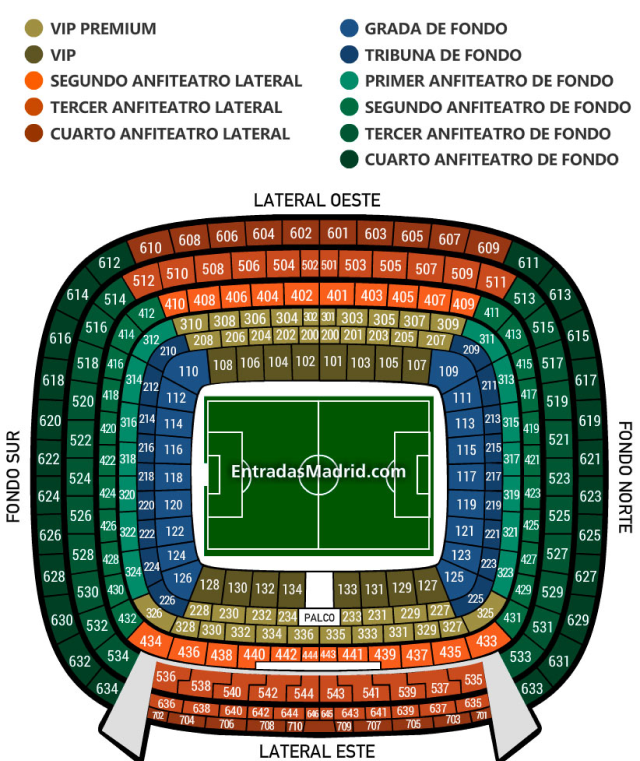
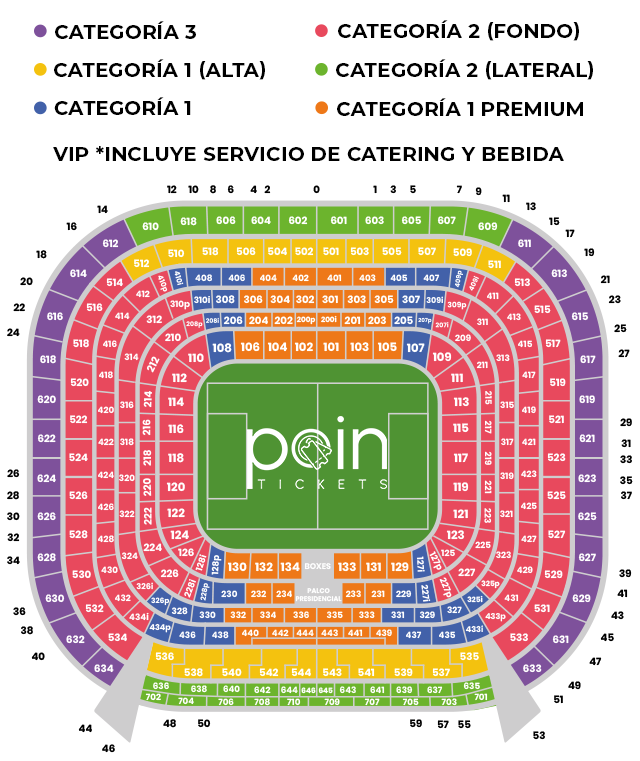
Validation of category

diff --git a/pages/tickets/vender/[id].vue b/pages/tickets/vender/[id].vue
@@ -351,27 +351,46 @@ export default {
                 'CAT 1 Premium': 'naranja'
             },
             valueSector: {
-                'CAT 3 - sectores 633 a 611 / sectores 634 a 612': 
-                [
-                    {
-                    min: 611, max: 633
-                    }
+                'CAT 3 - sectores 633 a 611 / sectores 634 a 612': [
+                    {min: 611, max: 633}
                 ],
-                'CAT 2 - fondo': [],
+                'CAT 2 - fondo': [
+                    {min:109, max: 128},
+                    {min:207, max: 228},
+                    {min:309, max: 326},
+                    {min:409, max: 434},
+                    {min:513, max: 534},
+                ],
                 'CAT 2 Lateral - sectores 609 a 610 / sectores 701 a 702 y 635 a 636': [
-                    {
-                    min: 609, max: 610
-                    },
-                    {
-                    min: 701, max: 702
-                    },
-                    {
-                    min: 635, max: 636
-                    }
+                    {min: 609, max: 610},
+                    {min: 701, max: 702},
+                    {min: 635, max: 636}
                 ],
-                'CAT 1 - Alta': [],
-                'CAT 1': [],
-                'CAT 1 Premium': []
+                'CAT 1 - Alta': [
+                    {min:501, max:507},
+                    {min:509, max:512},
+                    {min:518, max:518},
+                    {min:535, max:544},
+                ],
+                'CAT 1': [
+                    {min:107, max:108},
+                    {min:205, max:208},
+                    {min:307, max:310},
+                    {min:405, max:410},
+                    {min:227, max:230},
+                    {min:325, max:330},
+                    {min:433, max:438},
+                ],
+                'CAT 1 Premium': [
+                    {min:101, max:106},
+                    {min:200, max:204},
+                    {min:301, max:306},
+                    {min:401, max:404},
+                    {min:129, max:134},
+                    {min:231, max:234},
+                    {min:332, max:336},
+                    {min:439, max:444},
+                ]
             },
             color: null
         }
